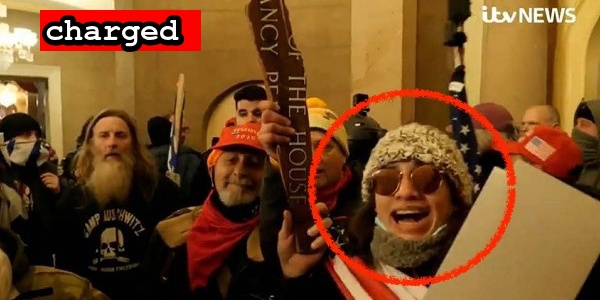
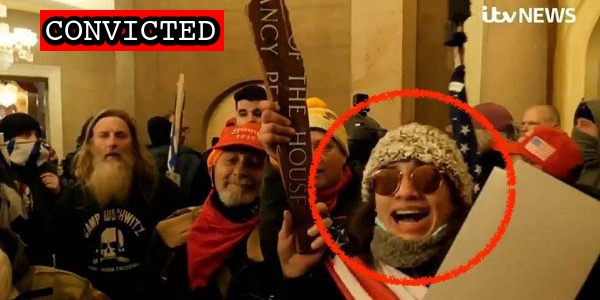
More updates

Changed region(s): [[0.06, 0.03, 0.39, 0.18]]

diff --git a/docs/_suspects/emily-hernandez.md b/docs/_suspects/emily-hernandez.md
@@ -4,15 +4,15 @@ lastName: Hernandez
 hashtag: EmilyHernandez
 aka:
 residence: Missouri
-status: Charged
+status: Convicted
 date: 2021-01-15
 charged: 2021-01-15
 indicted:
-convicted: 
-sentenced: 
-dismissed: 
+convicted: 2022-01-10
+sentenced:
+dismissed:
 deceased:
-plea_hearing:
+plea_hearing: 2022-01-10
 sentencing:
 age: 20
 occupation:
@@ -34,8 +34,13 @@ published: true
 caseNumber: 1:21-mj-73
 videos:
 charges:
+  - code: 18 USC § 1752(a)(1)
+    title: Entering a restricted building or grounds
+    url: https://www.law.cornell.edu/uscode/text/18/1752
+    felony: false
 sentence:
 ---
+
 - [News Report](https://www.ksdk.com/article/news/local/missouri-woman-capitol-riot-turns-herself-in/63-8f78e65f-b006-406e-b3d3-6ff3315efb03)
 - [Statement of Facts](https://www.justice.gov/opa/page/file/1357301/download)
 - [Perp Walk (PHOTO)](https://www.ksdk.com/article/news/local/missouri-woman-capitol-riot-turns-herself-in/63-8f78e65f-b006-406e-b3d3-6ff3315efb03)

diff --git a/docs/_suspects/esther-schwemmer.md b/docs/_suspects/esther-schwemmer.md
@@ -4,16 +4,16 @@ lastName: Schwemmer
 hashtag: EstherSchwemmer
 aka:
 residence: Kansas
-status: Convicted
+status: Sentenced
 date: 2021-04-15
 charged: 2021-04-15
 indicted:
 convicted: 2021-09-29
-sentenced:
+sentenced: 2022-01-10
 dismissed:
 deceased:
 plea_hearing: 2021-09-29
-sentencing: 2021-12-21
+sentencing: 2022-01-10
 age:
 occupation:
 affiliations:
@@ -35,7 +35,11 @@ caseNumber: 1:21-cr-364
 videos:
 charges:
 sentence:
+  - 24 months probation
+  - 60 hours community service
+  - $500 restitution
 ---
+
 - [News Report](https://www.msn.com/en-us/news/us/two-kansas-women-arrested-in-jan-6-capitol-riot/ar-BB1g2yEp)
 - [Statement of Facts](https://www.justice.gov/usao-dc/case-multi-defendant/file/1438221/download)
 - [Information](https://extremism.gwu.edu/sites/g/files/zaxdzs2191/f/Esther%20Schwemmer%20Information.pdf)
